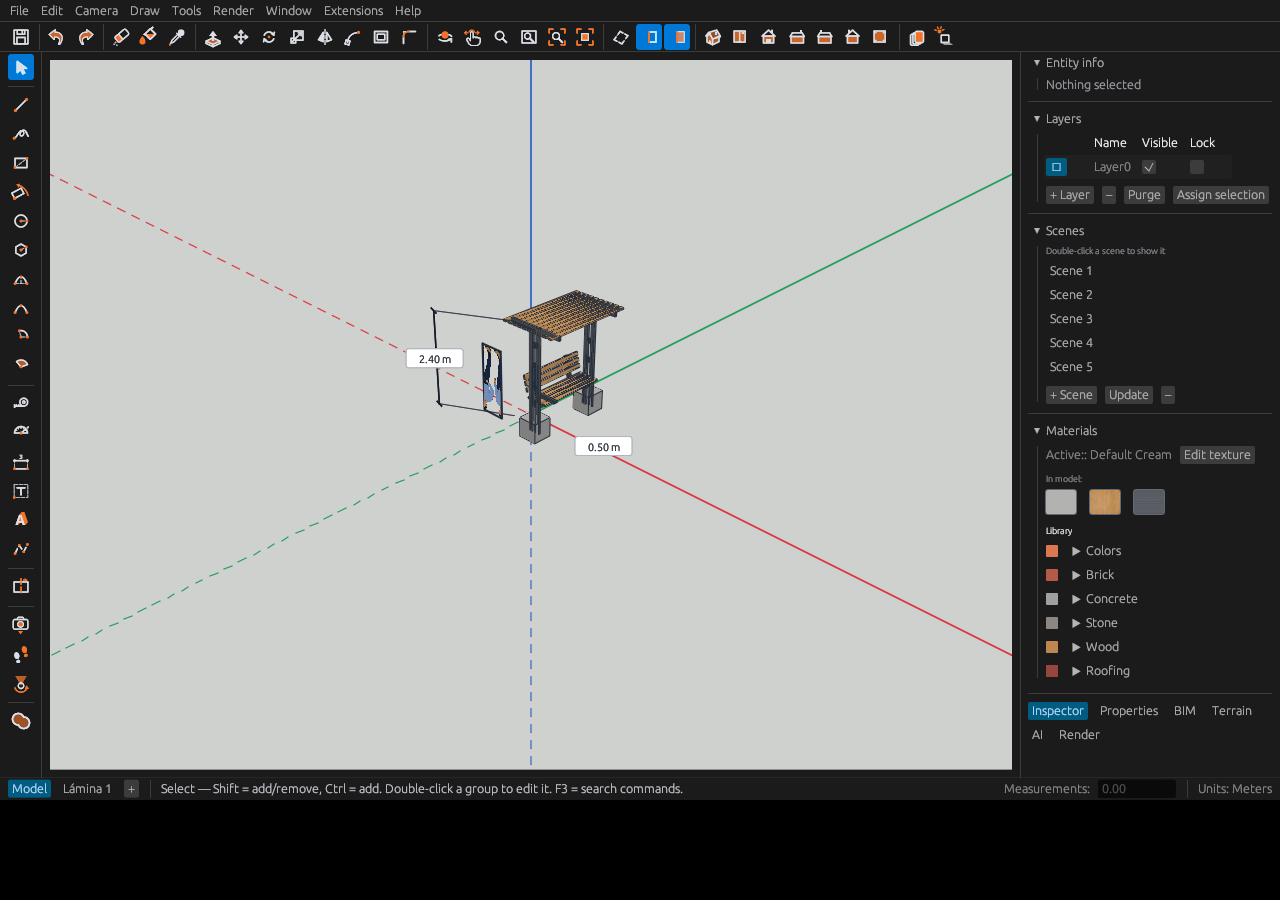
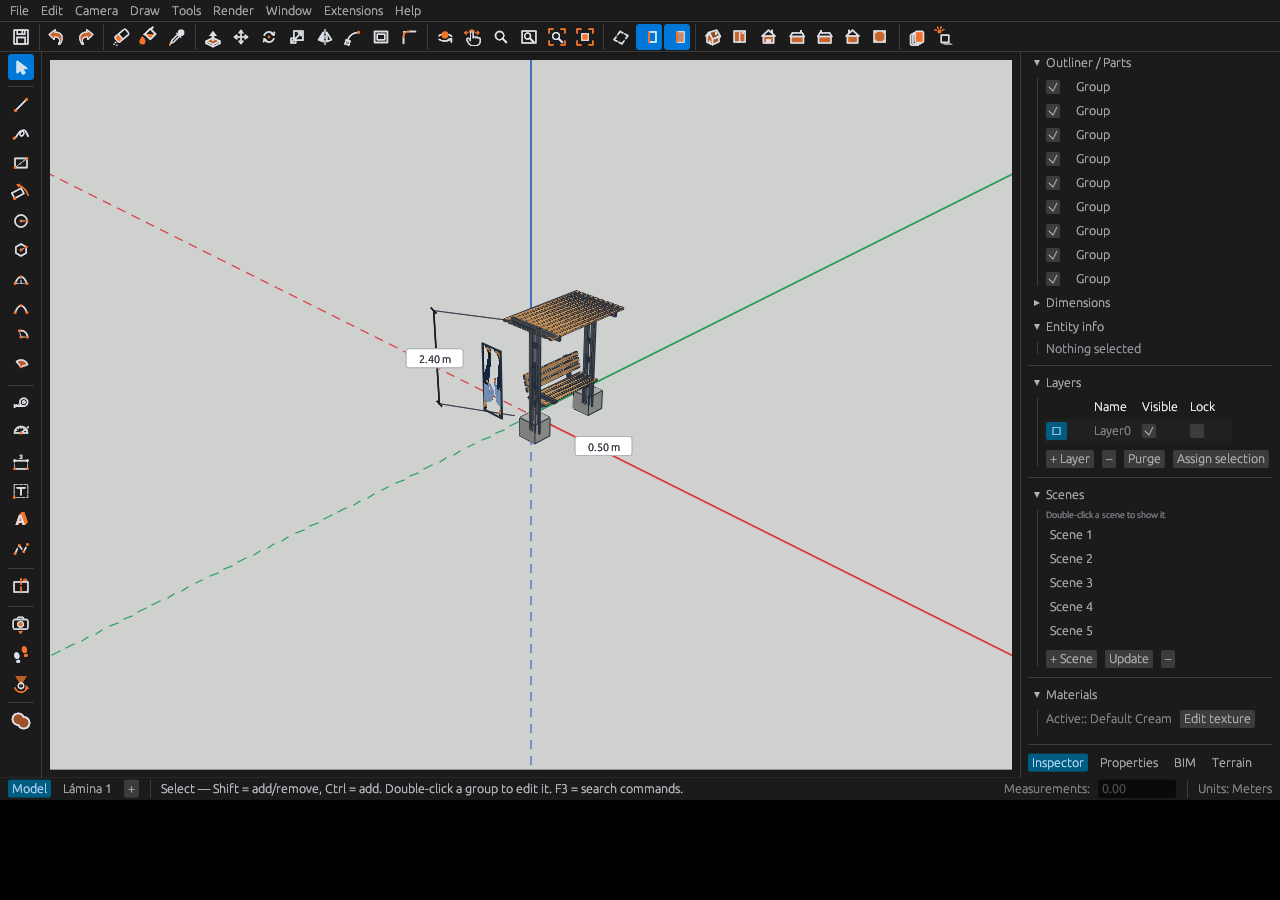
Retain combined format render evidence and reconcile stage four tracker

Changed region(s): [[0.7812, 0.0622, 1.0, 0.8711]]

diff --git a/docs/PARITY_PROGRESS.md b/docs/PARITY_PROGRESS.md
@@ -6,7 +6,7 @@ Initial audit and latest milestone: 2026-10-09 (America/Los_Angeles). Baseline R
 
 The Rust workspace is a substantial implementation, not a parity-complete replacement. **Full feature parity is not verified.** Earlier conversational estimates of 40–60% remaining are superseded by this evidence-based inventory; feature rows have unequal effort and should not be converted into an overall percentage.
 
-Latest published milestone: **200 Rust tests passed**, CLI built, four original documents preserve recursive source semantics and reopen through the pinned Python runtime. Published [milestone 3](audits/SWARM_MILESTONE_03.md) [CI passed](https://github.com/supere989/ingetrazo-rust/actions/runs/38012356527). Current local stage 4 integration passed **217 Rust tests** before the pending dimension-anchor additions; original-runtime saved-view recall, intersection and eight healing cases pass on the combined checkout. Stage 4 publication remains pending combined document, format and rendered checks.
+Latest published milestone: **200 Rust tests passed**, CLI built, four original documents preserve recursive source semantics and reopen through the pinned Python runtime. Published [milestone 3](audits/SWARM_MILESTONE_03.md) [CI passed](https://github.com/supere989/ingetrazo-rust/actions/runs/38012356527). Current local stage 4 integration passed **225 Rust tests** including dimension anchors, world measurement frames and physical pieces; original-runtime saved-view recall, intersection and eight healing cases pass on the combined checkout. Stage 4 combined document preservation/Python reopen, glTF import/export, clipboard, exchange export and virtual rendered startup checks pass; independent context/pieces acceptance and publication remain pending.
 
 See [first swarm milestone](audits/SWARM_MILESTONE_01.md), [current document acceptance](audits/document-semantic-evidence.json), [original runtime reopen](audits/python-reopen-evidence.json), [fresh/edit interpretation](audits/python-edit-evidence.json), [boolean oracle](audits/python-boolean-evidence.json), [Push/Pull oracle](audits/python-pushpull-evidence.json), [rendered screenshot](audits/render-pergola.png), and [145-test log](audits/swarm-milestone-01-tests.txt). Each checker records source provenance. GitHub CI has been added; cloud status is reported separately.
 
@@ -38,11 +38,11 @@ No row is Verified in this current inventory. All rows remain open until their a
 | P08 | P1 | Select/move/rotate/scale/offset/paint/erase | Implemented | [tools/lib.rs](../crates/ingetrazo-tools/src/lib.rs): Tool implementations and selected bounded tests exist. | Verify nested/transformed groups, copied arrays, angled rotations, face holes and cancellations interactively. |
 | P09 | P1 | Fillet | Partial | Single-edge, two-edge miter chains and three-edge spherical Fillet patches implemented; five original-native shape cases pass (maximum difference 3.86e-8), with cursor sizing, immutable preview, typed radius/segments and atomic error/undo tests. Broad transformed/concave/corner and rendered gesture corpus remains open. | Generate proper rounded corners using radius/segments; topology, volume and undo tests. |
 | P10 | P1 | Follow Me sweep | Partial | Connected manual/preselected path and perimeter sweeps, joint-plane miters, holes, clipped lathe poles and circular rotation implemented. Thirteen original-native shape cases pass; manual path/backtrack/crossing and preview/release/cancel tests pass. Source-attached profiles, arbitrary path robustness and rendered gestures remain open. | Sweep straight/bent/closed paths with correct frames, joins and manifold topology. |
-| P11 | P1 | Intersect/heal/rebuild/pieces | Partial | [gui/app.rs](../crates/ingetrazo-gui/src/app.rs): Intersect menu only reports success; rebuild_planar_faces rebuilds spatial index; healing deduplicates vertex sets; pieces counts connectivity. | Actual face intersections, cap rebuilding and separated piece outputs; regression corpus and undo. |
+| P11 | P1 | Intersect/heal/rebuild/pieces | Partial | Transactional face intersections, planar arrangements/rebuild, hole/overlap healing, physical piece extraction and Orient Faces are implemented. Independent original intersection and eight healing cases pass; Pieces/context/robustness acceptance remains open. | Actual face intersections, cap rebuilding and separated piece outputs; regression corpus and undo. |
 | P12 | P1 | Groups/components/clipboard | Partial | Shared registry, nested local edit transactions, linked clipboard and recursive Make Unique verified on bounded actual Python fixtures including UID/placement/UV preservation. Group/explode and loose clipboard preserve holes/face-edge attributes/independent curves. Cursor preview and broad cross-context/system clipboard remain open. | Shared definitions, nested edit context, instance transforms, linked copies and paste preview preserved across saves. |
-| P13 | P1 | Layers and saved scenes | Partial | [core/saved_views.rs](../crates/ingetrazo-core/src/saved_views.rs): Saved view schema and per-entity identity are mapped and preserved through edits, including opaque style state. Layer locking and full saved-scene interactive behavior still need validation. | Saved camera/style/visibility roundtrips; locked-layer picking/edit rejection; create/update/delete scene workflows. |
+| P13 | P1 | Layers and saved scenes | Partial | [core/saved_views.rs](../crates/ingetrazo-core/src/saved_views.rs): Saved view schema and per-entity identity are mapped and preserved through edits, including opaque style state. Selected update/rename/remove transactions and original-runtime camera/style/section/nested-visibility recall pass after fixing persisted native identities. Layer locking and rendered scene workflows remain open. | Saved camera/style/visibility roundtrips; locked-layer picking/edit rejection; create/update/delete scene workflows. |
 | P14 | P1 | Materials/textures/component library | Partial | [gui/tray.rs](../crates/ingetrazo-gui/src/tray.rs): Material/texture rendering exists; no full library/parity validation; texture archive preservation needs audit. | Names, both face sides, UV projection, tile size, opacity, edit-and-restamp and portable archives preserved. |
-| P15 | P1 | Dimensions and leader labels | Implemented | [core/dimensions.rs](../crates/ingetrazo-core/src/dimensions.rs): Annotation types/rendering exist; fixture counts preserved in shallow check. | Verify values, glyph picking, moves, editing, styles, occlusion and original schema semantics. |
+| P15 | P1 | Dimensions and leader labels | Implemented | [core/dimensions.rs](../crates/ingetrazo-core/src/dimensions.rs): Original a/b/offset/axis/text/layer schema and 32 cursor-placement cases pass actual Python comparisons. Runtime endpoint anchors, atomic properties and world measurement frames in nested transformed edits are implemented; independent live-anchor/context and rendered glyph acceptance remain open. | Verify values, glyph picking, moves, editing, styles, occlusion and original schema semantics. |
 | P16 | P1 | Camera and viewport navigation | Implemented | [gui/viewport.rs](../crates/ingetrazo-gui/src/viewport.rs): Orbit/pan/zoom/projection exist; visible camera now synchronizes with document save/open/new/undo, with regression test. Cursor pivot and all projection workflows remain to verify interactively. | Saved views restored; cursor pivot, zoom extents and perspective modes verified with reference sessions. |
 | P17 | P1 | Walk/position camera/look around | Partial | [gui/menu.rs](../crates/ingetrazo-gui/src/menu.rs): Commands only set status messages. | Actual eye-height navigation modes, input mapping and cancellation match baseline. |
 | P18 | P1 | Visual styles and hidden lines | Implemented | [render/hlr.rs](../crates/ingetrazo-render/src/hlr.rs): Classification and rendering implemented; actual software-rendered textured model startup inspected after fixing textured-vertex panic. Occlusion fidelity and performance remain unverified. | Image comparisons for occlusion, silhouettes, soft edges, nested groups and styles; large-scene timing. |

diff --git a/.orchestration/PORT_COMPLETION.md b/.orchestration/PORT_COMPLETION.md
@@ -31,3 +31,5 @@ Review actual diffs and acceptance evidence. Cherry-pick reviewed commits into c
 ## Integration checkpoint: stage 4
 
 Canonical source through dd17c2a passes 217 Rust workspace tests. Original-runtime saved-view recall, intersection segment/mutation, and eight healing cases pass on this combined checkout. Published milestone 3 CI run 38012356527 completed successfully. Stage 4 remains local pending broader format/document/render checks and tracker reconciliation; dimension anchors/context edits await review and independent validation. Full release gates remain open.
+
+Stage 4 checkpoint through959ed50:225 Rust tests pass; CLI rebuilt, combined glTF/export/clipboard/exchange oracles pass; virtual pergola textured rendering visually inspected with dimensions/outliner. Four original docs retain zero field/asset differences and reopenPython afteranchor schema integration. Pieces/world-frame source integrated; independent acceptance pending. DAE recursive geometry fix integrated; DAE material/import work remains.
